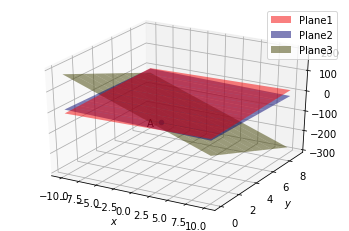
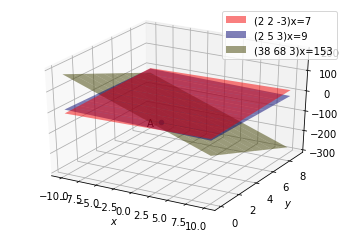
Add files via upload

Changed region(s): [[0.6304, 0.0303, 0.9742, 0.2727]]

diff --git a/Assignment4/assignment4.py b/Assignment4/assignment4.py
@@ -43,13 +43,13 @@ z3 = (c3-n3[0]*xx-n3[1]*yy)/(n3[2])
 
 
 #plotting planes
-Plane1=ax.plot_surface(xx, yy, z1,label="Plane1", color='red',alpha=0.5)
+Plane1=ax.plot_surface(xx, yy, z1,label='(2 2 -3)x=7', color='red',alpha=0.5)
 Plane1._facecolors2d=Plane1._facecolors3d
 Plane1._edgecolors2d=Plane1._edgecolors3d
-Plane2=ax.plot_surface(xx, yy, z2,label="Plane2", color='blue',alpha=0.5)
+Plane2=ax.plot_surface(xx, yy, z2,label='(2 5 3)x=9', color='blue',alpha=0.5)
 Plane2._facecolors2d=Plane2._facecolors3d
 Plane2._edgecolors2d=Plane2._edgecolors3d
-Plane3=ax.plot_surface(xx, yy, z3,label="Plane3", color='y',alpha=0.5)
+Plane3=ax.plot_surface(xx, yy, z3,label='(38 68 3)x=153', color='y',alpha=0.5)
 Plane3._facecolors2d=Plane3._facecolors3d
 Plane3._edgecolors2d=Plane3._edgecolors3d
 #ax.view_init(160, 60)
@@ -62,3 +62,4 @@ ax.text(1.2,0.2,-2.2,'A')
 #show plot
 plt.xlabel('$x$');plt.ylabel('$y$')
 plt.legend(loc='best');plt.grid()
+
